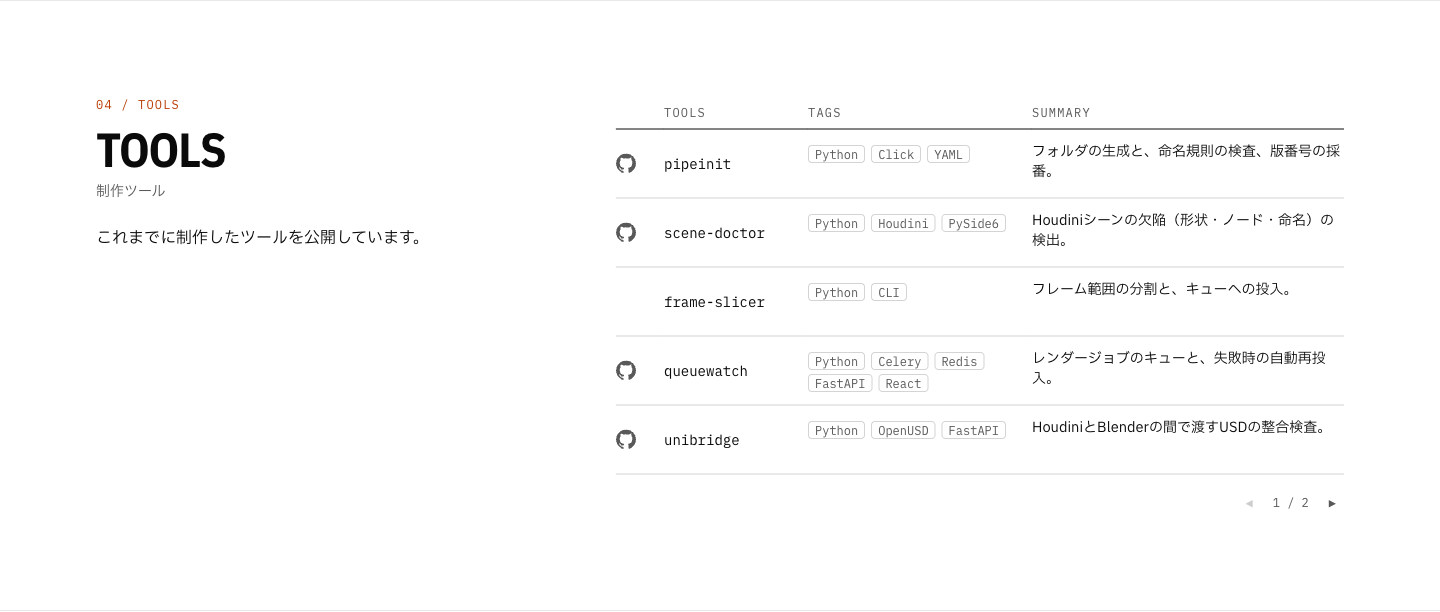
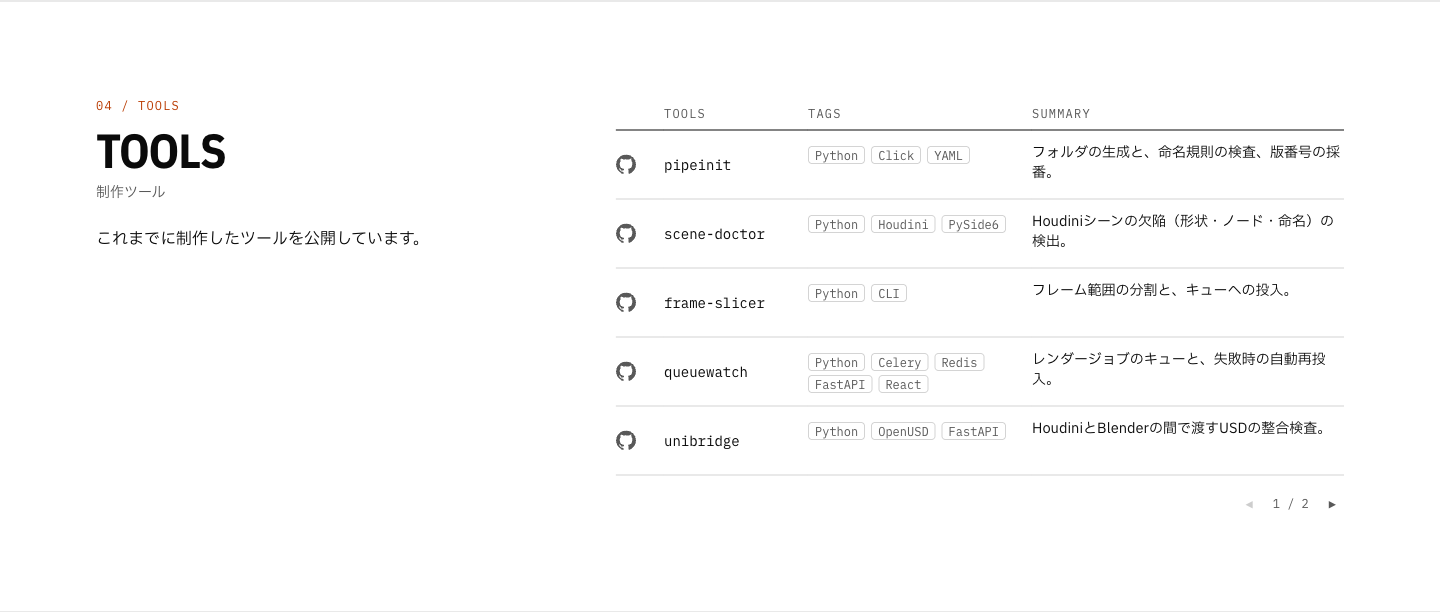
feat: add frame-slicer to the news and tools

diff --git a/e2e/home.spec.ts b/e2e/home.spec.ts
@@ -1,6 +1,10 @@
+import fs from "node:fs";
+import path from "node:path";
+
 import { expect, test, type Locator, type Page } from "@playwright/test";
 
 import { hero } from "@content/sections/hero";
+import { news } from "@content/sections/news";
 import { pipeline } from "@content/sections/pipeline";
 import { tools } from "@content/sections/tools";
 import { site } from "@content/site";
@@ -474,4 +478,55 @@ test("a tool's detail opens and closes with the keyboard, and the pager moves on
   await page.keyboard.press("Enter");
   await expect(next).toBeDisabled();
   await expect(previous).toBeEnabled();
+});
+
+const NEWS_FOLDER = path.join(process.cwd(), "content", "news");
+const DESKTOP_VIEWPORT = { width: 1440, height: 900 };
+
+test("the news list pages through every entry with the keyboard", async ({
+  page,
+}) => {
+  const total = fs
+    .readdirSync(NEWS_FOLDER)
+    .filter((file) => file.endsWith(".md")).length;
+  const pageCount = Math.ceil(total / news.perPage);
+
+  await page.setViewportSize(DESKTOP_VIEWPORT);
+  await page.goto("/");
+  const section = page.locator("#news");
+  const items = section.getByRole("listitem");
+  const next = section.getByRole("button", { name: news.pager.next });
+  const previous = section.getByRole("button", { name: news.pager.prev });
+
+  if (pageCount === 1) {
+    await expect(items).toHaveCount(total);
+    await expect(next).toHaveCount(0);
+    await expect(previous).toHaveCount(0);
+    return;
+  }
+
+  const listHeight = () =>
+    section
+      .locator("ol")
+      .evaluate((list) => list.getBoundingClientRect().height);
+
+  await expect(items).toHaveCount(news.perPage);
+  await expect(section.getByText(`1 / ${pageCount}`)).toBeVisible();
+  await expect(previous).toBeDisabled();
+  const firstPageTexts = await items.allTextContents();
+  const firstPageHeight = await listHeight();
+
+  await next.focus();
+  await page.keyboard.press("Enter");
+  await expect(section.getByText(`2 / ${pageCount}`)).toBeVisible();
+  await expect(items).toHaveCount(Math.min(news.perPage, total - news.perPage));
+  const secondPageTexts = await items.allTextContents();
+  for (const text of secondPageTexts)
+    expect(firstPageTexts).not.toContain(text);
+  expect(await listHeight()).toBeCloseTo(firstPageHeight, 0);
+
+  await previous.focus();
+  await page.keyboard.press("Enter");
+  await expect(section.getByText(`1 / ${pageCount}`)).toBeVisible();
+  expect(await items.allTextContents()).toEqual(firstPageTexts);
 });

diff --git a/content/sections/tools.ts b/content/sections/tools.ts
@@ -31,6 +31,7 @@ export const tools = {
     {
       id: "frame-slicer",
       name: "frame-slicer",
+      repoUrl: "https://github.com/nokgc333/frame-slicer",
       tags: ["Python", "CLI"],
       summary: "フレーム範囲の分割と、キューへの投入。",
       detail:

diff --git a/content/news/2026-10-19-frame-slicer-added.md b/content/news/2026-10-19-frame-slicer-added.md
@@ -1,0 +1,5 @@
+---
+date: "2026-10-19"
+kind: added
+text: "【frame-slicer】フレーム範囲の分割と、QueueWatchへの投入を追加"
+---
